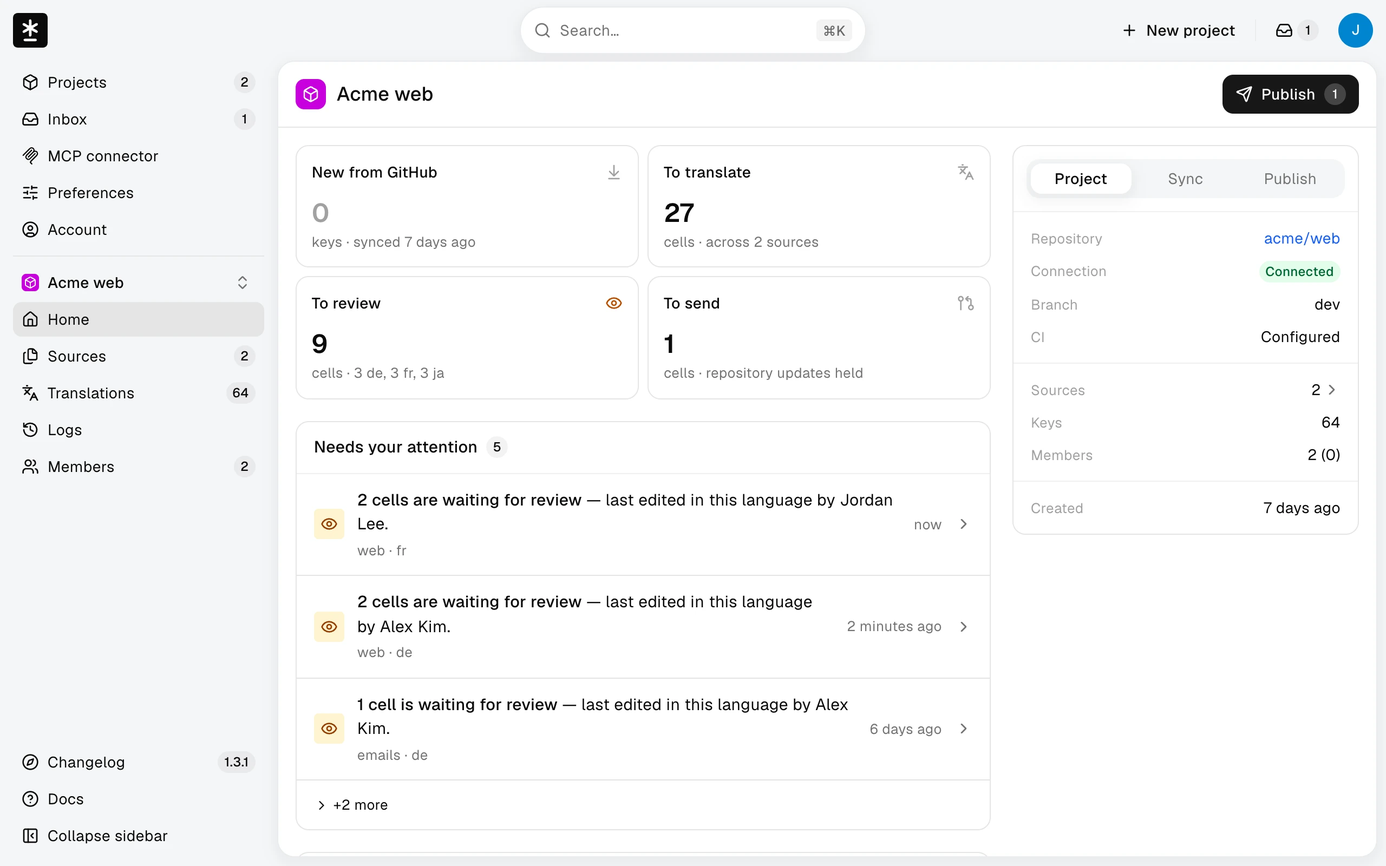
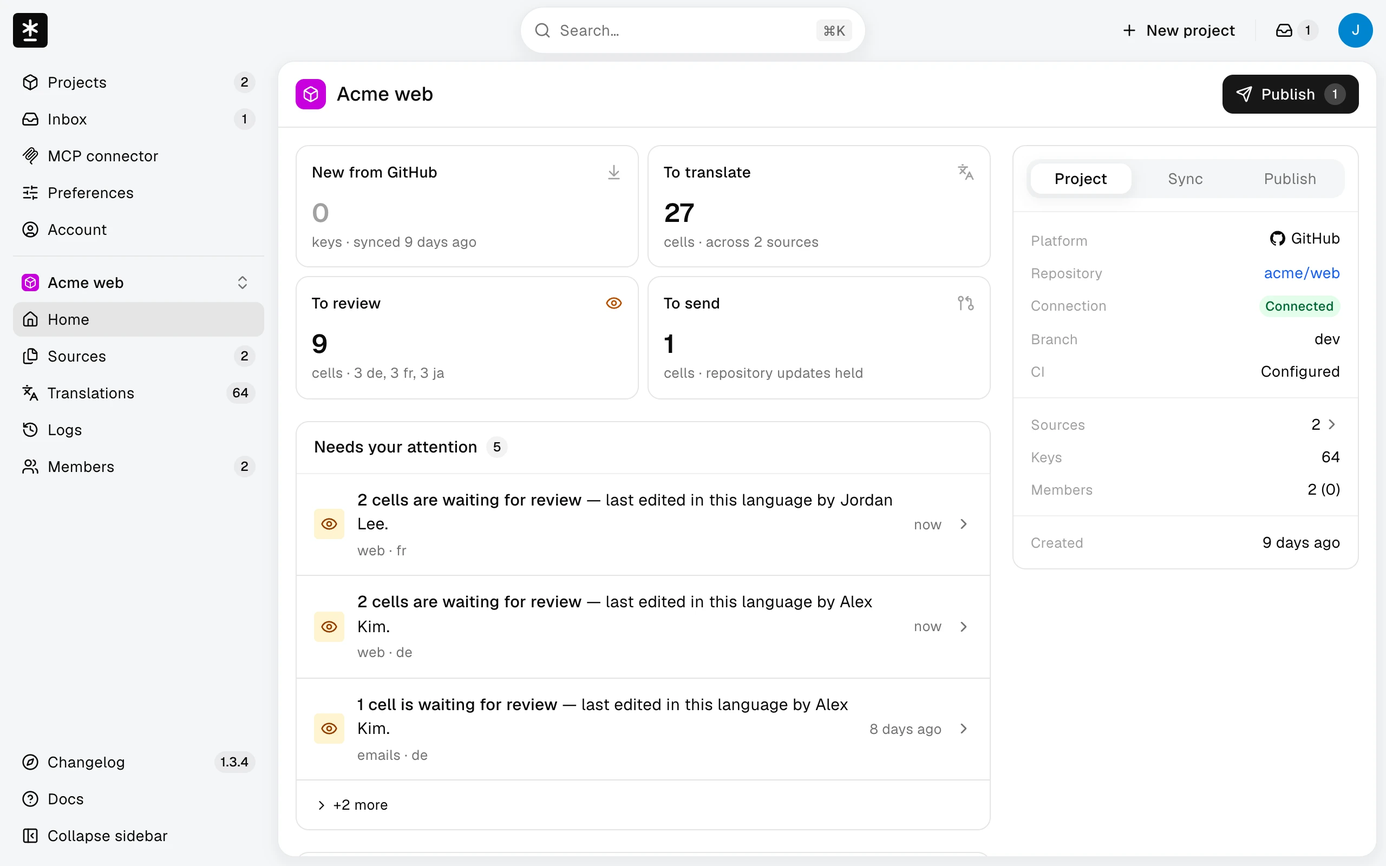
docs(guide): reshoot stale screenshots and add GitLab connect, CI file and repository card cuts

diff --git a/guide/SHOOTING.md b/guide/SHOOTING.md
@@ -64,6 +64,11 @@
 | i18n-single-locale | admin |
 | i18n-many-locales | docs |
 | i18n-none | api |
+| ox501501/malmoi-gitlab-test | alex-kim/web |
+| malmoi-gitlab-test | web |
+| bugshot-test | extension |
+| bugshot-2 | acme |
+| ox501501 | alex-kim |
 
 **사람을 가리키는 값은 이 표에 적지 않는다** — 표 자체가 공개 리포에 커밋된다. 촬영자가 원본을 로컬에서만 들고 치환한다: OWNER 표시 이름·GitHub 로그인 → `Alex Kim`·`@alex-kim`, EDITOR 표시 이름 → `Jordan Lee`, 이메일(가려진 `ab***@…` 꼴 포함) → `@example.com` 주소, 사람 사진 → 치환 이름의 이니셜 원(`Avatar` 폴백 모양). 뷰포트 전체 규격이라 셸 좌상단·우상단 아바타가 늘 컷에 들어간다 — 크롭으로 뺄 수 없다.
 - 앱 origin `localhost:3000`은 `mal-moi.com`으로 바꾼다 — `/mcp`의 Server URL과 조각이 origin을 그대로 보인다(가이드 본문이 프로덕션 주소를 쓴다). ⚠ **컷은 호스팅 서비스 화면이다**(2026-10-09, self-hosting) — self-hosted 설치의 화면·워크플로엔 `api-url:` 줄이 항상 있고 주소가 설치 origin이지만, 컷은 그 줄을 지운 호스팅 출력으로 둔다. 그 차이는 컷이 아니라 본문(`setup/workflow.md#update-workflow`)이 말한다. 원고 본문은 `mal-moi.com` 주소를 코드 조각에 박지 않는다(MCP 주소는 `SERVER_URL` 자리 + **Copy server URL**).
@@ -72,6 +77,7 @@
 - ⚠ **오너 GitHub 계정명은 원본으로 올릴 수 없다** — `SinhyeokKang/malmoi/...`는 action 경로라 `setup/allowed-actions.md`에 정당하게 있고, 게이트가 부분 문자열로 red를 낸다. 화면에서 그 계정이 사람으로 보이는 자리(셸 좌측 상단·계정 메뉴)는 크롭으로 뺀다. action 경로 속 계정명은 공개 식별자라 그대로 둔다.
 - 픽셀 안의 문자열은 게이트가 못 본다. 컷마다 눈으로 확인한다.
 - **프로젝트 밖 셸의 프로젝트 목록 구역**(2026-10-09, sidebar-projects)은 OWNER의 실제 프로젝트 이름(앞 5개)을 보인다 — 구역 `<nav aria-label="Your projects">` **안에서만** 먼저 치환한다(일반 치환은 `malmoi`·`bugshot-i18n-test-qa`를 다른 자리까지 바꾼다): 긴 QA 이름 → `Acme admin`, `bugshot-i18n-test-qa` → `extension`(표의 `acme-web`은 `Acme web` 행과 겹친다 — inbox 컷의 선례), `i18n-order-check` → `acme-mobile`, `malmoi` → `Acme docs`. 이미지 썸네일(`bugshot-i18n-test-qa`·`malmoi`)은 기본 타일(`bg-hue-*` + Box 글리프)로 바꿔 끼운다 — `bg-hue-*`는 `amber`·`emerald`·`fuchsia`·`indigo`·`orange`·`rose`·`sky`·`teal`만 있다(없는 색은 흰 타일로 그려진다). EDITOR 세션은 멤버 프로젝트 둘(`Acme web` · `extension`)과 `New project`만 보인다.
+- **GitLab 식별자**(2026-10-13, gitlab-repositories GS): 촬영 GitLab 계정의 사용자명 `ox501501`은 표에 올렸다 — 사람을 가리키는 값이지만 이미 공개 리포(방침 연락처·roundtrip 폐기용 리포 경로)에 있는 핸들이고, 표에 올려야 게이트가 서빙 원고에서 0을 지킨다. 실명·이메일은 위 규칙대로 표에 적지 않는다. GitLab 프로젝트 경로는 **사용자 네임스페이스라 `alex-kim/web`**이다(GitHub의 `acme/web`과 다르다 — 화면의 `Connected as @alex-kim`과 맞춘다). 경로가 소유자·`/`·이름 노드로 갈려도 사용자명 치환 둘이 각각 걸린다. Malmoi 프로젝트 이름·주소도 `malmoi-gitlab-test`라 `web`이 된다. ①의 GitLab 목록에는 그 계정의 다른 프로젝트(`bugshot-2` 그룹의 `bugshot-test`)가 함께 보인다 — `extension` · `acme`.
 
 ## 컷 목록 {#picks}
 
@@ -109,6 +115,9 @@
 | `/guide/preferences-language.webp` | `account/preferences.md#preferences` | OWNER | Preferences — Language 카드 English, 메뉴 닫힘·도움말 보임 |
 | `/guide/mcp-create-token.webp` | `ai-agents/token.md#token` | EDITOR | MCP connector → Create token 모달 ①단계(만들지 않음 — ② 토큰 원문은 찍지 않는다) |
 | `/guide/mcp-connector.webp` | `ai-agents/browser.md#connected-apps` | OWNER | MCP connector — Connected apps(연결 둘, 로고 칸) + 토큰 카드(원문 없음) — Connect 카드는 2026-09-30에 걷었다 |
+| `/guide/gitlab-connect.webp` | `setup/connect-gitlab.md#connect-gitlab` | OWNER | ①단계 GitLab 탭 — 연결 계정 줄(만료일 · Replace token) + 프로젝트 목록, `malmoi-gitlab-test` 선택 + Branch `main` |
+| `/guide/gitlab-ci-file.webp` | `setup/gitlab-ci.md#ci-unavailable` | OWNER | GitLab 프로젝트 Settings → CI integration → CI file 모달 — 지금은 CI 파일 미릴리스 안내(릴리스 SHA가 채워지면 YAML·변수 안내로 바뀐다 — 그때 재촬영하고 `#gitlab-ci`로 옮길지 `/guide`가 정한다) |
+| `/guide/gitlab-repository-card.webp` | `reference/troubleshooting.md#gitlab-access` | OWNER | GitLab 프로젝트 Settings — Repository 카드(연결 행 · `Connected with your token · expires …` · Base branch)를 패널 위쪽으로 스크롤 |
 | `/guide/oauth-consent.webp` | `ai-agents/browser.md#browser` | OWNER | `/oauth/authorize` 동의 화면 — claude.ai CIMD 요청(Authorize 누르지 않음), Translate & publish 하나 체크 |
 
 ## 에셋 매핑 {#shots}
@@ -120,36 +129,39 @@
 | 에셋 | 소스 | blob | 치수 |
 | --- | --- | --- | --- |
 | /guide/push-token-secret.webp | lib/onboarding/workflow.ts | de45de3dad10e1231c932e05ddc616b5397b29d1 | 2560x1600 |
-| /guide/workflow-file.webp | components/settings/ci-card.tsx, components/onboarding/workflow-block.tsx, lib/onboarding/workflow.ts | 90dcb75e83ac0ed2d4b9b0362bcf2ec0de4ac009, 13a0bbaf8bae47bc0995b3ba5710b84ecdb4a3cf, de45de3dad10e1231c932e05ddc616b5397b29d1 | 2560x1600 |
+| /guide/workflow-file.webp | components/settings/ci-card.tsx, components/onboarding/workflow-block.tsx, lib/onboarding/workflow.ts | 988e20347691a91eae7995cecbe7d2694ef05ee4, e0ac1f57f9f9030693e91490d78a1e8fb03714ec, de45de3dad10e1231c932e05ddc616b5397b29d1 | 2560x1600 |
 | /guide/actions-policy.webp | lib/onboarding/workflow.ts, .github/actions/malmoi-i18n-push/action.yml | de45de3dad10e1231c932e05ddc616b5397b29d1, 559ddc28bcd1c0fa8f4a1946dd15f7e8fcd0f03d | 2560x1600 |
-| /guide/translation-editor.webp | components/translations/workspace/key-list.tsx, components/translations/workspace/locale-panel.tsx, components/translations/workspace/workspace.tsx, components/translations/workspace/tree-panel.tsx | 2c42ea96c69fe2f89dd975ed4d0435bab8f2df2b, 16a52148f9dd92485ab8e8c1df19e4045de91a50, 32972c68cc8208290a535b09c7ce119ea9fc994e, 1e93cf6e783081414d514b315d21dd4578602550 | 2560x1600 |
-| /guide/publish-preview.webp | components/publish-button.tsx, lib/publish/preview.ts | 3df9f9dc9e703736400d2247d26c9d35b40b7407, aab60c85f05f99f32e26d6a47b3a6e6721313f37 | 2560x1600 |
-| /guide/project-home.webp | app/(edit)/projects/[slug]/(home)/page.tsx, components/home/count-cards.tsx, components/home/meta-column.tsx, components/home/meta-tabs.tsx | 2b9f8aa972bc5c8e02b6d9207067e7215d94b663, 82bc47ebbf79fe2d66902ffb828abffe96bbcd08, 607654710bbd5111f2fa6961e7e605a04dac2aac, 326a71e9fadefec3992bad2e9acf0192fa107a35 | 2560x1600 |
+| /guide/translation-editor.webp | components/translations/workspace/key-list.tsx, components/translations/workspace/locale-panel.tsx, components/translations/workspace/workspace.tsx, components/translations/workspace/tree-panel.tsx | 2c42ea96c69fe2f89dd975ed4d0435bab8f2df2b, 16a52148f9dd92485ab8e8c1df19e4045de91a50, c1c8ccf51ce92d39c56260381fe756aefc9ca6bb, 1e93cf6e783081414d514b315d21dd4578602550 | 2560x1600 |
+| /guide/publish-preview.webp | components/publish-button.tsx, lib/publish/preview.ts | 83a7db1261a14aae68ca91b0ec231cb7ec4d5343, aab60c85f05f99f32e26d6a47b3a6e6721313f37 | 2560x1600 |
+| /guide/project-home.webp | app/(edit)/projects/[slug]/(home)/page.tsx, components/home/count-cards.tsx, components/home/meta-column.tsx, components/home/meta-tabs.tsx | e1da6ab9dc0773da5c543619d85b06efba41cbb2, 82bc47ebbf79fe2d66902ffb828abffe96bbcd08, 0e67fc7c827d5c28da3bf0c9f7ea71a127c27c6f, 326a71e9fadefec3992bad2e9acf0192fa107a35 | 2560x1600 |
 | /guide/invite-members.webp | components/members/invite-modal.tsx | eb7d59815ce95f005cb00d3a9825c6180c0e1b5d | 2560x1600 |
 | /guide/members.webp | components/members/member-list.tsx, components/members/member-row.tsx, components/members/pending-invitations.tsx | 6c11618f5cf3a604dbc8245f1beb026e98a25cc3, c22d96684a0ffbfbe2fdda0b36db5ca310a200e9, bb3be5dd03f9eded04f737c4a007e01e44435210 | 2560x1600 |
-| /guide/sources.webp | components/sources/sources-screen.tsx, components/sources/source-status.tsx | fcc1768b4ab759697b58bb10737151f8cb6783cc, 3df5a25bcf1d94eee8d15176730ab652a9c18a9c | 2560x1600 |
+| /guide/sources.webp | components/sources/sources-screen.tsx, components/sources/source-status.tsx | 9c56251ca5cb419d3cdf7659f9aade9512fa9eaf, 3df5a25bcf1d94eee8d15176730ab652a9c18a9c | 2560x1600 |
 | /guide/add-sources.webp | components/sources/add-sources-modal.tsx | 3a68b93e1836d12f8bef9de4e7aad708b0aa3f7c | 2560x1600 |
 | /guide/archive-card.webp | components/settings/archive-card.tsx | fbf5ba1bd7b87ff3c8ea910d2876d810b3deb440 | 2560x1600 |
 | /guide/accept-invitation.webp | app/invite/[token]/page.tsx, components/invite/project-card.tsx, components/signin/auth-layout.tsx | 1478fc3b94bfa1813c8467467b00b3cda61aa0b4, f9d7dc35d9d0493e3105516374f0e78a24ad7fe2, ba72c94d3b0d2211607221055fa104ef50e4b032 | 2560x1600 |
 | /guide/state-filter.webp | components/translations/workspace/filter-menu.tsx, components/translations/workspace/key-list.tsx, dict:translations.workspace.filters.state.any, dict:translations.workspace.filters.state.incomplete, dict:translations.workspace.filters.state.unsent, dict:translations.workspace.filters.state.review, dict:translations.workspace.filters.state.new | 0d6e722c777ce3d4d3cdba98015793f38c2cbb4a, 2c42ea96c69fe2f89dd975ed4d0435bab8f2df2b, b823bb9b42b3672439670b5267fe5328d7524380, 387fd1bbc18419e26c612f4acad9213e5073ade4, 0d09fa0d8c890b48da20aefe409a39eb962b5114, 33a506cf6ec5a56c261838f0a5a3d29cd7f2dacc, 56539cd31aeb7453fb2900c2952b988146fd6127 | 2560x1600 |
 | /guide/inbox-open.webp | components/shell/attention-inbox.tsx, lib/home/attention-view.ts, lib/inbox/plan.ts, components/inbox/row-slots.tsx | 923e6db193fd4c529d08b90415ec621c149ea0b2, edbbb141b2877391ee384376b69298ae30d301da, 4145fd76f2c3729a2975d9c5f53c87195e710f80, 733b1e879b07ca09c03a8687fde5d75a037fde68 | 2560x1600 |
 | /guide/inbox-page.webp | app/(edit)/inbox/page.tsx, components/inbox/inbox-list.tsx, components/inbox/row-slots.tsx, lib/inbox/plan.ts | df74c31a4dd36d61615638890d73981e0d854782, be439ea0b57a08136990b9c26fa176cb9a84c38e, 733b1e879b07ca09c03a8687fde5d75a037fde68, 4145fd76f2c3729a2975d9c5f53c87195e710f80 | 2560x1600 |
-| /guide/home-publish.webp | app/(edit)/projects/[slug]/(home)/page.tsx, components/home/count-cards.tsx, components/publish-button.tsx | 2b9f8aa972bc5c8e02b6d9207067e7215d94b663, 82bc47ebbf79fe2d66902ffb828abffe96bbcd08, 3df9f9dc9e703736400d2247d26c9d35b40b7407 | 2560x1600 |
-| /guide/publish-result.webp | components/publish-button.tsx | 3df9f9dc9e703736400d2247d26c9d35b40b7407 | 2560x1600 |
-| /guide/home-paused.webp | app/(edit)/projects/[slug]/(home)/page.tsx, components/home/count-cards.tsx, components/home/meta-column.tsx, components/home/meta-tabs.tsx, dict:home.cards.held.pending-edits | 2b9f8aa972bc5c8e02b6d9207067e7215d94b663, 82bc47ebbf79fe2d66902ffb828abffe96bbcd08, 607654710bbd5111f2fa6961e7e605a04dac2aac, 326a71e9fadefec3992bad2e9acf0192fa107a35, e7daa697ea395700d6e0a57f5dc83a59b2b30aa7 | 2560x1600 |
-| /guide/revert-confirm.webp | components/translations/workspace/workspace.tsx, components/translations/edit-loss-banner.tsx, components/translations/workspace/key-list.tsx | 32972c68cc8208290a535b09c7ce119ea9fc994e, 1c1091fe8e495bea05b41e9022bb758b522c15e4, 2c42ea96c69fe2f89dd975ed4d0435bab8f2df2b | 2560x1600 |
+| /guide/home-publish.webp | app/(edit)/projects/[slug]/(home)/page.tsx, components/home/count-cards.tsx, components/publish-button.tsx | e1da6ab9dc0773da5c543619d85b06efba41cbb2, 82bc47ebbf79fe2d66902ffb828abffe96bbcd08, 83a7db1261a14aae68ca91b0ec231cb7ec4d5343 | 2560x1600 |
+| /guide/publish-result.webp | components/publish-button.tsx | 83a7db1261a14aae68ca91b0ec231cb7ec4d5343 | 2560x1600 |
+| /guide/home-paused.webp | app/(edit)/projects/[slug]/(home)/page.tsx, components/home/count-cards.tsx, components/home/meta-column.tsx, components/home/meta-tabs.tsx, dict:home.cards.held.pending-edits | e1da6ab9dc0773da5c543619d85b06efba41cbb2, 82bc47ebbf79fe2d66902ffb828abffe96bbcd08, 0e67fc7c827d5c28da3bf0c9f7ea71a127c27c6f, 326a71e9fadefec3992bad2e9acf0192fa107a35, e7daa697ea395700d6e0a57f5dc83a59b2b30aa7 | 2560x1600 |
+| /guide/revert-confirm.webp | components/translations/workspace/workspace.tsx, components/translations/edit-loss-banner.tsx, components/translations/workspace/key-list.tsx | c1c8ccf51ce92d39c56260381fe756aefc9ca6bb, 1c1091fe8e495bea05b41e9022bb758b522c15e4, 2c42ea96c69fe2f89dd975ed4d0435bab8f2df2b | 2560x1600 |
 | /guide/sync-discard.webp | components/home/sync-button.tsx | 03c75034b48b58f0208b5c625d2e2f4ef7a18b35 | 2560x1600 |
 | /guide/logs-event.webp | components/logs/event-dialog.tsx, components/logs/event-detail.tsx | f76913a6d8972a169402769e9951ef6dbb9a79bb, 60f6fc110edf8df5e7774b2c1aa1cdd4f4c05998 | 2560x1600 |
-| /guide/account.webp | app/(edit)/account/page.tsx, components/account/profile-picture.tsx, components/account/login-methods.tsx, components/account/github-section.tsx | 3acac4206b74882275c3b948c2a7c452d6650798, c4ea53b3f682c942003dac5b81bb7eb80a72d269, a81d7ab6bacf7642a6b95a090713b81d89ed1be4, 555c889cb02f999c49bd06e0fc72c5c331e7d814 | 2560x1600 |
+| /guide/account.webp | app/(edit)/account/page.tsx, components/account/profile-picture.tsx, components/account/login-methods.tsx, components/account/github-section.tsx, components/account/gitlab-section.tsx | 42fb47a6e8fbe410344cb6fa3c9613d02b207abf, c4ea53b3f682c942003dac5b81bb7eb80a72d269, a81d7ab6bacf7642a6b95a090713b81d89ed1be4, 555c889cb02f999c49bd06e0fc72c5c331e7d814, c8617008d319b97325f7594814a2aaeaaed0afd2 | 2560x1600 |
 | /guide/footer-language-menu.webp | components/i18n/locale-switcher.tsx, lib/i18n/locales.ts | c71d7813e91fdb33e9144151d6dcdf1f5f34d12d, 7ae40a45e0677ae93a26e331d74bda1680d403da | 2560x1600 |
 | /guide/preferences-language.webp | app/(edit)/preferences/page.tsx, components/preferences/language-card.tsx, components/preferences/time-zone-card.tsx, components/preferences/preference-select-card.tsx, components/preferences/theme-card.tsx, dict:uiLocale.label, dict:preferences.help | ba45481f1bad944a5b4582d56b5ea6e84e141d6e, 35fad581fb2f5b7b9ab4b854151513f55fa608bd, e89003ad1ccfc47db86ab5c6afc09e6f95d6aefb, b3369b152d1f9da4cc00f01dddb6fc036d14d504, 746bc2ed9e956bd3947b9a0aed92e406ae32af56, 89b86ab0e66f527166d98df92ddbcf5416ed58f6, 7a750458e565a71d07b3e10a45654499a58c2673 | 2560x1600 |
 | /guide/mcp-create-token.webp | components/mcp/token-modal.tsx, components/mcp/token-grant-fields.tsx | c96820a9c8869d021052c5873b0404cfc8e3e7b4, ad7e6129db1f932a7d9ef42b0d18756abe81552f | 2560x1600 |
 | /guide/mcp-connector.webp | components/mcp/connected-apps-card.tsx, components/mcp/token-card.tsx | d1b7da7f5c88d00c7e5ec339af86bf1e4f8cc8de, 6ee9dfbfd2a737c4009610cbf1b0ffc140cc874c | 2560x1600 |
 | /guide/oauth-consent.webp | app/oauth/authorize/page.tsx, components/oauth/consent-panel.tsx, components/oauth/app-card.tsx, components/mcp/token-grant-fields.tsx | e838a660b030cfd1a10c80729ef68068e3449581, 6dbe67b7adc44b561d2d6eda73322f83e93e8cae, f84a8047e035ed76fe1411941a3c8086844c4455, ad7e6129db1f932a7d9ef42b0d18756abe81552f | 2560x1600 |
-| /guide/create-repository.webp | components/onboarding/new-project.tsx, components/onboarding/steps/repo.tsx | 303e1a6bbb4e299066db1effde59319a49b307a6, 3863fd74c2075bd05c312a63caeee32f4b81d466 | 2560x1600 |
-| /guide/create-files.webp | components/onboarding/new-project.tsx, components/onboarding/steps/files.tsx | 303e1a6bbb4e299066db1effde59319a49b307a6, fceda1dfa1ca991fe98dfded0d8a65d12df6b4e2 | 2560x1600 |
-| /guide/create-name.webp | components/onboarding/new-project.tsx, components/onboarding/steps/naming.tsx | 303e1a6bbb4e299066db1effde59319a49b307a6, f6f81681dddbc2e660011c6f91fe10711766473b | 2560x1600 |
-| /guide/create-ready.webp | components/onboarding/new-project.tsx, components/onboarding/steps/result.tsx, components/onboarding/workflow-block.tsx | 303e1a6bbb4e299066db1effde59319a49b307a6, 1d97cf223710bc767caf08f18257afe6f43265b3, 13a0bbaf8bae47bc0995b3ba5710b84ecdb4a3cf | 2560x1600 |
+| /guide/create-repository.webp | components/onboarding/new-project.tsx, components/onboarding/steps/repo.tsx | d082e1b6ca92373b70ca7b151c439d7a15358521, 24561e9b29b05d14a11a0f38a9d79fb098bef400 | 2560x1600 |
+| /guide/create-files.webp | components/onboarding/new-project.tsx, components/onboarding/steps/files.tsx | d082e1b6ca92373b70ca7b151c439d7a15358521, fceda1dfa1ca991fe98dfded0d8a65d12df6b4e2 | 2560x1600 |
+| /guide/create-name.webp | components/onboarding/new-project.tsx, components/onboarding/steps/naming.tsx | d082e1b6ca92373b70ca7b151c439d7a15358521, 1807e066e59178bc07308716bfcf6e17f5e0b79d | 2560x1600 |
+| /guide/create-ready.webp | components/onboarding/new-project.tsx, components/onboarding/steps/result.tsx, components/onboarding/workflow-block.tsx | d082e1b6ca92373b70ca7b151c439d7a15358521, 605e3daa3a6276eee53cf7564ad57f7cb2e406d8, e0ac1f57f9f9030693e91490d78a1e8fb03714ec | 2560x1600 |
+| /guide/gitlab-connect.webp | components/onboarding/new-project.tsx, components/onboarding/steps/repo.tsx | d082e1b6ca92373b70ca7b151c439d7a15358521, 24561e9b29b05d14a11a0f38a9d79fb098bef400 | 2560x1600 |
+| /guide/gitlab-ci-file.webp | components/settings/ci-card.tsx, components/onboarding/workflow-block.tsx, lib/onboarding/gitlab-ci.ts | 988e20347691a91eae7995cecbe7d2694ef05ee4, e0ac1f57f9f9030693e91490d78a1e8fb03714ec, 680955099d6eadca5883fef2aa440e160a83a0db | 2560x1600 |
+| /guide/gitlab-repository-card.webp | components/settings/repository-card.tsx, app/(edit)/projects/[slug]/settings/page.tsx | 9b52b058beb948505e3c0f7cea216006ca99eab2, 47ff29741aedf6c233ce93830805293f203573da | 2560x1600 |
 
 - ⚠ **셸이 컷에 들어간 뒤로 LNB·패널 머리·카드 머리(`components/shell/**`·`components/ui/panel-card.tsx` 등)의 변경도 모든 컷을 낡게 한다** — 소스로 올리면 신호가 죽으므로(`messages/en.tsx`와 같은 이유) 올리지 않는다. 셸을 바꿨으면 컷 전체를 손으로 다시 본다.
 
@@ -208,3 +220,4 @@
 - 2026-10-11 responsive-public QA 재확인 1 — `oauth-consent` **재촬영**(2560×1600, WebP quality 90). #221 수정(동의 CTA sticky는 `lg` 미만만) 뒤 1280×800 동의 화면이 변경 전 커밋 `3a1afe68`과 **픽셀 차이 0**이라 이번 런이 바꾼 화면은 없다. 그런데 기존 컷이 그 기준과도 달랐다(이번 런 전 변경 — Auth 푸터가 가운데 `English` 하나에서 왼쪽 링크 묶음 + 오른쪽 언어·테마 스위처로 바뀌었고 본문이 가로로 약 7.5px 어긋나 있었다). SHA만 갱신하면 그 어긋남이 굳으므로 다시 찍었다. 셋업은 전과 같다: claude.ai CIMD(`claude.ai/oauth/mcp-oauth-client-metadata`, 콜백 `claude.ai/api/mcp/auth_callback`) authorize 요청, Authorize 누르지 않음, Translate & publish 하나 체크, 만료 90 days(기본), 이메일 → `alex.kim@example.com`, 아바타 이니셜 → `A`(amber 폴백 그대로), 테마 라이트(`data-theme` 고정).
 - 2026-10-11 responsive-app FIN — `guide:check` stale 22컷(41건) 정리. **재촬영 20**(1280×800 · DPR 2, WebP quality 90): `project-home` · `members` · `sources` · `account` · `preferences-language` · `workflow-file` · `invite-members` · `mcp-connector` · `create-repository` · `create-files` · `logs-event` · `home-paused` · `sync-discard` · `revert-confirm`(OWNER) · `translation-editor` · `state-filter` · `home-publish` · `publish-preview` · `publish-result`(EDITOR) · `footer-language-menu`(비로그인). 판정은 기존 파일과 새 캡처의 픽셀 대조(채널 합 60 초과 차이)였고 20장 모두 달랐다 — 화면이 바뀐 것: 페이지 머리 오른쪽 아래 사유 줄(`Nothing to send — every edit is already sent.` · EDITOR `Only project owners can sync.`) · `logs-event` 상세 표 행 높이 약 0.5px · 공개 푸터에 테마 스위처 · 온보딩 ①② 대화상자 안. 나머지는 셸 배지(Projects 10 · Changelog 1.3.1)와 상대 시각만 다르다. **SHA만 갱신 2**: `push-token-secret` · `actions-policy` — `workflow.ts`는 action 태그 `@malmoi-i18n-push-v3`와 self-hosted `api-url` 분기뿐이고, GitHub 설정 화면(Secret 폼 · 허용 패턴 `@*` 넷)은 그대로다. 셋업: OWNER·EDITOR 계정 테마를 촬영 동안 `system`(+ `prefers-color-scheme: light` 에뮬레이션)으로 두고 OWNER `dark` · EDITOR null로 되돌렸다(DB) · OWNER `checkout.submit` de `Jetzt bestellen` → `home-paused`(Sync 탭)·`sync-discard`(Cancel)·`revert-confirm` → 실제 Revert(켜져 있었다) · EDITOR는 정리된 상태에서 `translation-editor`·`state-filter`를 먼저 찍고 `checkout.submit` fr `Passer la commande` → `home-publish`·`publish-preview`(PR 안 엶) → 빈 값 재저장 → Publish(`Nothing differs`) → `publish-result` · MCP 연결 둘은 가짜 `OAuthConnection` 행(id `fin-gs-*`) → 촬영 뒤 삭제(0→0) · ①②는 Create project 근처도 가지 않았다(②에서 멈춤) · `footer-language-menu`는 로그아웃 상태 `/docs`에서 새 `project-home`을 반영한 뒤(캐시 끔) 찍었다. 전후 대조: 미전달 0→0(전 프로젝트), OAuth 연결 0→0, 프로젝트 10→10, 초대 수 그대로, `acme-web` 사건 58→63(편집·Revert · 편집·재저장·Publish), 나머지 프로젝트 사건 그대로, GitHub 쓰기 없음. ⚠ **새로 밟은 것**: ① 공통 `snap`이 대화상자 안 `SinhyeokKang` 노드를 온보딩 규칙(`alex-kim`)으로 바꾸면 `logs-event`의 행위자가 `alex-kim`이 된다 — 그 치환은 `create-*` 컷에만 건다. ② 비로그인 기기 쿠키 `malmoi-color-scheme`이 dark라 공개 셸이 다크로 그려진다 — 푸터 테마 스위처로 System을 고르고 찍은 뒤 Dark로 되돌렸다. ③ `/docs` 첫 화면의 히어로 그림은 `public/guide/project-home.webp`라, 그 컷을 바꿨으면 브라우저 캐시를 끄고(`Network.setCacheDisabled`) 다시 연다. ④ zsh에서 따옴표 없는 `$NAMES`는 낱말로 갈리지 않는다 — 매핑 재계산 스크립트에 이름을 직접 넘긴다.
 - 2026-10-11 disabled-reasons-revert T7 — `guide:check` stale 8컷(10건). 꺼진 Sync·Publish 아래 사유 줄을 걷고 `title` + sr-only로 되돌린 변경이다. **재촬영 3**(1280×800 · DPR 2, WebP quality 90): `project-home`(OWNER — 미전달 0이라 머리에 `Nothing to send…` 줄이 섰었다) · `translation-editor`(EDITOR — 꺼진 Sync 아래 `Only project owners can sync.` 줄) · `publish-result`(EDITOR — Dim 뒤 Home이 미전달 0으로 돌아가 사유 줄이 섰었다). **SHA만 갱신 5**: `home-paused` · `sync-discard` · `revert-confirm`(OWNER) · `home-publish` · `publish-preview`(EDITOR) — 미전달 1건 상태라 Sync·Publish가 켜져 있어 옛 컷에도 사유 줄이 없었다. 새 캡처와 기존 파일을 픽셀 대조(채널 합 60 초과)해 차이가 상대 시각(`7 days ago` → `8 days ago` 등)뿐임을 확인했다. `page.tsx`는 주석 한 줄이다. 셋업: 두 계정 테마를 촬영 동안 `system`(+ `prefers-color-scheme: light` 에뮬레이션)으로 두고 OWNER `dark` · EDITOR null로 되돌렸다(DB) · OWNER `checkout.submit` de `Jetzt bestellen` → 확인용 캡처 셋 → 실제 Revert · EDITOR는 정리된 상태에서 `translation-editor`를 찍은 뒤 `checkout.submit` fr `Passer la commande` → Home·미리보기(PR 안 엶) → 빈 값 재저장 → Publish(`Nothing differs`) → `publish-result`. 전후 대조: 미전달 0→0, OAuth 연결 0→0, `acme-web` 사건 63→68(편집·Revert · 편집·재저장·Publish), 전체 사건 716→721, GitHub 쓰기 없음. 마스킹 표 추가 없음.
+- 2026-10-13 gitlab-repositories GS — `guide:check` stale 14컷(22건) 정리 + GitLab 컷 셋 **추가**. **재촬영 6**(1280×800 · DPR 2, WebP quality 90): `project-home` · `home-publish`(Home Project 탭에 `Platform` 행 — GitHub 글리프 + 이름) · `publish-preview` · `publish-result`(Dim 뒤 Home 메타 열이 그 행만큼 내려갔다) · `account`(맨 아래 `GitLab PAT` 카드가 섰다 — 매핑에 `gitlab-section.tsx`를 더했다) · `create-repository`(① 머리에 `GitHub | GitLab` 탭). **SHA만 갱신 8** — 새 캡처를 기존 파일과 픽셀 대조(채널 합 60 초과)해 차이가 셸 배지(Projects 10→11 · Changelog 1.3.1→1.3.4)·상대 시각·Dim 뒤 흐린 목록뿐임을 확인했다: `workflow-file`(GitHub 프로젝트는 같은 경로·힌트 링크) · `translation-editor` · `revert-confirm`(`RepoHostScope` 감싸기·이탈 가드 로직) · `sources`(호스트 글리프 분기 + sr-only 이름) · `home-paused`(Sync 탭 — `Platform` 행은 Project 탭에만 선다) · `create-files` · `create-name`(②③ 대화상자 차이 0) · `create-ready`(**재캡처 없음** — ④는 일회용 프로젝트가 필요하다. `result.tsx`·`workflow-block.tsx`·`new-project.tsx`의 ④ 변경은 전부 `forHost(…, "github")`가 원래 노드를 돌려주는 GitLab 갈래이고 GitHub 출력은 같다). **추가 3**: `gitlab-connect`(`setup/connect-gitlab.md#connect-gitlab` — 단계 목록 뒤) · `gitlab-ci-file`(`setup/gitlab-ci.md#ci-unavailable` — 지금 화면이 미릴리스 안내라 그 절에 두었다. 매핑에 `lib/onboarding/gitlab-ci.ts`를 올려 릴리스 SHA가 채워지면 stale이 된다) · `gitlab-repository-card`(`reference/troubleshooting.md#gitlab-access` — 설정 카드를 설명하는 유일한 절이다. `connect-gitlab`은 ① 컷이 이미 그 작업 페이지의 한 장이고 연결 계정 줄도 그 컷에 있다). 세 언어 원고에 같은 경로로 참조를 넣었다(이번 런 예외 승인 — alt·title은 언어별). 셋업: GitLab 프로젝트 `malmoi-gitlab-test`(dev DB 상주, `ox501501/malmoi-gitlab-test` · PAT 만료 2026-11-11 — 14일 밖이라 만료 예정 띠 없음)를 그대로 썼고 PAT를 다시 넣지 않았다. ①의 GitLab 탭은 프로젝트를 고르고 Branch `main`까지만(Next 안 누름). 테마는 계정 값(`dark`)을 바꾸지 않고 캡처 직전 `<html data-theme>`을 `light`로 바꿨다(+ `prefers-color-scheme: light` 에뮬레이션). OWNER `checkout.submit` de `Jetzt bestellen` → `home-paused`·`revert-confirm` 대조 캡처 → 실제 Revert · EDITOR(Google) `checkout.submit` fr `Passer la commande` → `home-publish`·`publish-preview`(PR 안 엶) → 빈 값 재저장 → Publish(`Nothing differs`) → `publish-result` → OWNER(GitHub)로 재로그인. 전후 대조: 미전달 0→0(전 프로젝트), `acme-web` 사건 68→73(편집·Revert · 편집·재저장·Publish), 전체 사건 740→745, OAuth 연결·API 토큰 0→0, `GitLabConnection` 1건 그대로(만료·갱신 시각 불변), 계정 언어·테마·`attentionSeenAt` 불변, GitHub 쓰기 없음, GitLab 테스트 프로젝트는 `main`만 · 열린 MR 0 그대로. ⚠ **새로 밟은 것**: ① GitLab 치환(`ox501501` → `alex-kim`)을 OWNER 이메일 정규식(`ox501…@gmail.com`)보다 먼저 걸면 주소가 `alex-kim@gmail.com`이 됐다가 일반 gmail 치환에 `jordan.lee@…`로 바뀐다 — GitLab 쌍은 사람 치환 **뒤에** 건다. ② ①의 GitLab 목록은 탭을 처음 열 때 서버가 GitLab을 부른다 — 라디오가 설 때까지 기다린다. ③ ①의 GitLab 대화상자는 GitHub 탭보다 낮아 세로 위치가 다르다(목록 둘).

diff --git a/guide/ko/setup/gitlab-ci.md b/guide/ko/setup/gitlab-ci.md
@@ -25,6 +25,8 @@
 
 Malmoi에 이 버전의 Malmoi에서는 아직 GitLab CI 파일을 쓸 수 없다고 표시되면 복사할 작업이 없습니다. 그래도 푸시 토큰은 보관해 두세요. CI 파일을 쓸 수 있게 될 때까지는 [야간 실행](../sync/nightly.md#repository-changes)과 **동기화**가 리포지토리 변경 사항을 가져옵니다.
 
+![이 버전의 Malmoi에서는 아직 GitLab CI 파일을 쓸 수 없다고 알려 주는 Malmoi 설정의 CI 파일 대화상자](/guide/gitlab-ci-file.webp "CI 파일을 쓸 수 있을 때까지 푸시 토큰을 보관해 두면 야간 실행과 동기화가 리포지토리 변경 사항을 가져옵니다.")
+
 ## 실행하고 확인하기 {#first-run}
 
 기준 브랜치에 작업을 커밋하면 실행이 시작됩니다. 다시 실행하려면 파이프라인에서 그 작업을 다시 실행합니다. 작업 로그를 확인하세요. `applied`는 파일을 반영해 Malmoi의 **소스**를 업데이트했다는 뜻입니다. 미전송 변경 사항이 있으면 성공한 작업도 `deferred`를 보고할 수 있습니다. 이때 리포지토리 업데이트는 보류되며 로그에는 **보류**로 표시됩니다. [코드가 바뀌면](../sync/push.md#deferred)을 참고하세요. 실패한 작업은 로그에 이유를 보여 줍니다. Malmoi에서는 홈의 **동기화** 탭이 최근 동기화를 보여 줍니다. **마지막 동기화**에 **CI 동기화**가, **결과**에 그 결과가, **변경**에 바뀐 번역 수가 표시됩니다. **동기화 로그**에는 모든 동기화가 나열됩니다.

diff --git a/guide/es/setup/gitlab-ci.md b/guide/es/setup/gitlab-ci.md
@@ -25,6 +25,8 @@ Si tu código lee las traducciones mediante una función envoltorio, rellena `MA
 
 Si Malmoi indica que el archivo de CI de GitLab aún no está disponible en esta versión de Malmoi, no hay jobs que copiar. Guarda igualmente el token de push; hasta que el archivo de CI esté disponible, la [ejecución nocturna](../sync/nightly.md#repository-changes) y **Sincronizar** cargan los cambios del repositorio.
 
+![El diálogo Archivo de CI en la Configuración de Malmoi indica que el archivo de CI de GitLab aún no está disponible en esta versión de Malmoi](/guide/gitlab-ci-file.webp "Hasta que el archivo de CI esté disponible, guarda el token de push; la ejecución nocturna y Sincronizar cargan los cambios del repositorio.")
+
 ## Ejecútalo y compruébalo {#first-run}
 
 Al hacer commit de los jobs en la rama base, se inician. Para ejecutarlos de nuevo, vuelve a ejecutar el job desde su pipeline. Revisa el registro del job: `applied` significa que los archivos se cargaron y **Fuentes** está actualizado en Malmoi. Un job correcto también puede informar `deferred` cuando hay ediciones sin enviar — la actualización se retiene y Registros la muestra como **Retenido**; consulta [Cuando cambia el código](../sync/push.md#deferred). Un job fallido muestra su motivo en el registro. En Malmoi, la pestaña **Sincronizar** de Inicio muestra la última sincronización: **Sincronización de CI** como **Última sincronización**, su **Resultado** y cuántas traducciones cambió en **Cambiados**. **Registros de sincronización** lista todas las sincronizaciones.

diff --git a/guide/ko/reference/troubleshooting.md b/guide/ko/reference/troubleshooting.md
@@ -19,6 +19,8 @@ GitHub 승인이 만료되었다면 **계정**을 열고 **GitHub App 다시 승
 
 GitLab 프로젝트의 **설정**에 있는 리포지토리 카드는 동기화와 게시에 누구의 토큰을 쓰는지, 그 토큰이 언제 만료되는지 보여 줍니다. 만료일까지 14일이 남지 않으면 카드 맨 위의 안내가 남은 일수를 알려 주고 카드에 **만료 예정**이 표시됩니다. 만료일이 지나면 안내가 토큰이 만료되었다고 알려 주고 카드에 **연결 끊김**이 표시됩니다.
 
+![GitLab 프로젝트 설정의 리포지토리 카드에 프로젝트가 연결됨으로 표시되고, 어느 토큰을 쓰는지와 그 토큰의 만료일이 보이는 모습](/guide/gitlab-repository-card.webp "프로젝트가 누구의 토큰을 쓰는지, 그 토큰이 언제 만료되는지 확인합니다.")
+
 - 내 토큰이라면 카드에 토큰 입력란이 나타납니다. 같은 GitLab 계정의 새 토큰을 **개인 액세스 토큰**에 붙여 넣고 **토큰 교체**를 선택합니다. 내 연결을 쓰는 프로젝트가 모두 새 토큰으로 바뀝니다.
 - 다른 사람의 토큰이라면 **내 GitLab 연결 사용**을 선택합니다. 그 뒤로 동기화와 게시는 내 GitLab 계정의 이름으로 남습니다. GitLab을 아직 연결하지 않았다면 먼저 카드에 내 토큰을 붙여 넣습니다.
 

diff --git a/guide/en/setup/gitlab-ci.md b/guide/en/setup/gitlab-ci.md
@@ -25,6 +25,8 @@ If your code reads translations through a wrapper function, fill in `MALMOI_I18N
 
 If Malmoi says the GitLab CI file isn't available in this version of Malmoi yet, there are no jobs to copy. Keep the push token anyway; until the CI file is available, the [nightly run](../sync/nightly.md#repository-changes) and **Sync** load repository changes.
 
+![The CI file dialog in Malmoi Settings saying the GitLab CI file isn't available in this version of Malmoi yet](/guide/gitlab-ci-file.webp "Until the CI file is available, keep the push token; the nightly run and Sync load repository changes.")
+
 ## Run and check it {#first-run}
 
 Committing the jobs on the base branch starts them. To run them again, run the job again from its pipeline. Check the job log: `applied` means the files were loaded and **Sources** is updated in Malmoi. A successful job can also report `deferred` when there are unsent edits — the update is held, and Logs shows it as **Held**; see [When code changes](../sync/push.md#deferred). A failed job shows its reason in the log. In Malmoi, Home's **Sync** tab shows the latest sync: **CI sync** as the **Last sync**, its **Result**, and how many translations it changed under **Changed**. **Sync logs** lists every sync.

diff --git a/guide/es/reference/troubleshooting.md b/guide/es/reference/troubleshooting.md
@@ -19,6 +19,8 @@ Si el repositorio no aparece, en Malmoi elige **Añadir repositorios** y luego, 
 
 En **Configuración** de un proyecto de GitLab, la tarjeta del repositorio muestra qué token usan las sincronizaciones y publicaciones, y cuándo caduca. En los 14 días anteriores a la caducidad, un aviso en la parte superior de la tarjeta indica cuántos días quedan y la tarjeta muestra **Caduca pronto**; después de esa fecha, el aviso indica que el token caducó y la tarjeta muestra **Desconectado**.
 
+![La tarjeta Repositorio en la Configuración de un proyecto de GitLab muestra el proyecto como Conectado, qué token usa y cuándo caduca](/guide/gitlab-repository-card.webp "Comprueba qué token usa el proyecto y cuándo caduca.")
+
 - Si el token es tuyo, la tarjeta muestra un campo de token: pega un token nuevo de la misma cuenta de GitLab en **Token de acceso personal** y elige **Reemplazar token**. Se actualizan todos los proyectos que usan tu conexión.
 - Si el token es de otra persona, elige **Usar mi conexión de GitLab**. A partir de entonces, las sincronizaciones y publicaciones quedan a nombre de tu cuenta de GitLab. Si aún no has conectado GitLab, pega primero tu token en la tarjeta.
 

diff --git a/guide/es/setup/connect-gitlab.md b/guide/es/setup/connect-gitlab.md
@@ -14,6 +14,8 @@ Malmoi se conecta a GitLab.com con un token de acceso personal de tu propia cuen
 4. Malmoi lista los proyectos de GitLab en los que tienes el rol Maintainer o superior. Si no hay ninguno, muestra **No hay proyectos de GitLab para añadir**: consigue ese rol en GitLab y luego elige **Intentar de nuevo**.
 5. Selecciona el repositorio, elige la **Rama** que contiene tus archivos de traducción y elige **Siguiente**. Las traducciones vuelven como una merge request contra esta rama.
 
+![El paso 1 de 4 de Nuevo proyecto en la pestaña GitLab, con la cuenta conectada y la caducidad del token sobre la lista, un proyecto seleccionado y main como rama](/guide/gitlab-connect.webp "Selecciona el proyecto de GitLab y su rama y luego elige Siguiente.")
+
 Debajo del cuadro de búsqueda, Malmoi muestra qué cuenta de GitLab está conectada y cuándo caduca su token. Para usar un token nuevo de la misma cuenta, elige **Reemplazar token**. También puedes gestionar el token en [Cuenta](../account/profile.md#gitlab-token). El proyecto publica con el token de quien lo conectó, así que los commits y las merge requests en GitLab quedan a nombre de esa cuenta de GitLab.
 
 ## Qué pasa después {#next}

diff --git a/guide/en/setup/connect-gitlab.md b/guide/en/setup/connect-gitlab.md
@@ -14,6 +14,8 @@ Malmoi connects to GitLab.com with a personal access token from your own GitLab 
 4. Malmoi lists the GitLab projects where you have the Maintainer role or higher. If there are none, it shows **No GitLab projects to add**: get that role in GitLab, then choose **Try again**.
 5. Select the repository, choose the **Branch** that contains your translation files, and choose **Next**. Translations come back as a merge request against this branch.
 
+![Step 1 of 4 of New project on the GitLab tab, with the connected account and token expiry above the list, a project selected, and main chosen as its branch](/guide/gitlab-connect.webp "Select the GitLab project and its branch, then choose Next.")
+
 Below the search box, Malmoi shows which GitLab account is connected and when its token expires. To use a new token for the same account, choose **Replace token**. You can also manage the token in [Account](../account/profile.md#gitlab-token). The project publishes with the token of the person who connected it, so commits and merge requests on GitLab are attributed to that GitLab account.
 
 ## What happens next {#next}

diff --git a/guide/en/reference/troubleshooting.md b/guide/en/reference/troubleshooting.md
@@ -19,6 +19,8 @@ If the repository is not listed, in Malmoi choose **Add repositories**, then in 
 
 In project **Settings**, a GitLab project's repository card shows whose token syncs and publishes use, and when that token expires. Within 14 days of its expiry date, a notice at the top of the card says how many days are left and the card shows **Expires soon**; after the date, the notice says the token expired and the card shows **Disconnected**.
 
+![The Repository card in a GitLab project's Settings showing the project as Connected, whose token it uses, and when that token expires](/guide/gitlab-repository-card.webp "Check whose token the project uses and when it expires.")
+
 - If the token is yours, the card shows a token field: paste a new token for the same GitLab account into **Personal access token** and choose **Replace token**. It updates every project that uses your connection.
 - If the token is another person's, choose **Use my GitLab connection**. Syncs and publishes are then written as your GitLab account. If you haven't connected GitLab yet, paste your token in the card first.
 

diff --git a/guide/es/account/profile.md b/guide/es/account/profile.md
@@ -11,7 +11,7 @@ Antes de empezar: abre el menú de tu avatar, arriba a la derecha, y elige **Cue
 
 La foto se redimensiona automáticamente y el archivo original no se conserva.
 
-![La página Cuenta con las secciones de perfil, métodos de inicio de sesión y GitHub App](/guide/account.webp "Actualiza tu perfil y tus métodos de inicio de sesión en Cuenta.")
+![La página Cuenta con las secciones de perfil, métodos de inicio de sesión, GitHub App y GitLab PAT](/guide/account.webp "Actualiza tu perfil y tus métodos de inicio de sesión en Cuenta.")
 
 ## Gestiona los métodos de inicio de sesión {#sign-in-methods}
 

diff --git a/guide/en/account/profile.md b/guide/en/account/profile.md
@@ -11,7 +11,7 @@ Before you start: Open your avatar menu at the top right and choose **Account**.
 
 The picture is resized automatically and the original file is not kept.
 
-![The Account page with the profile, sign-in methods, and GitHub App sections](/guide/account.webp "Update your profile and sign-in methods in Account.")
+![The Account page with the profile, sign-in methods, GitHub App, and GitLab PAT sections](/guide/account.webp "Update your profile and sign-in methods in Account.")
 
 ## Manage sign-in methods {#sign-in-methods}
 
